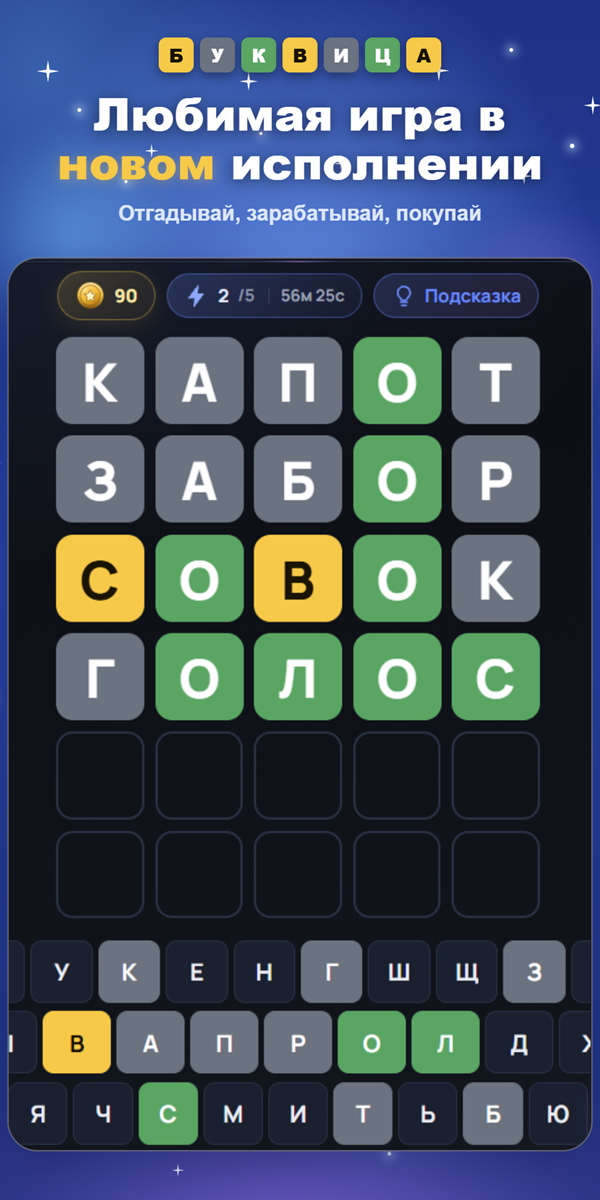
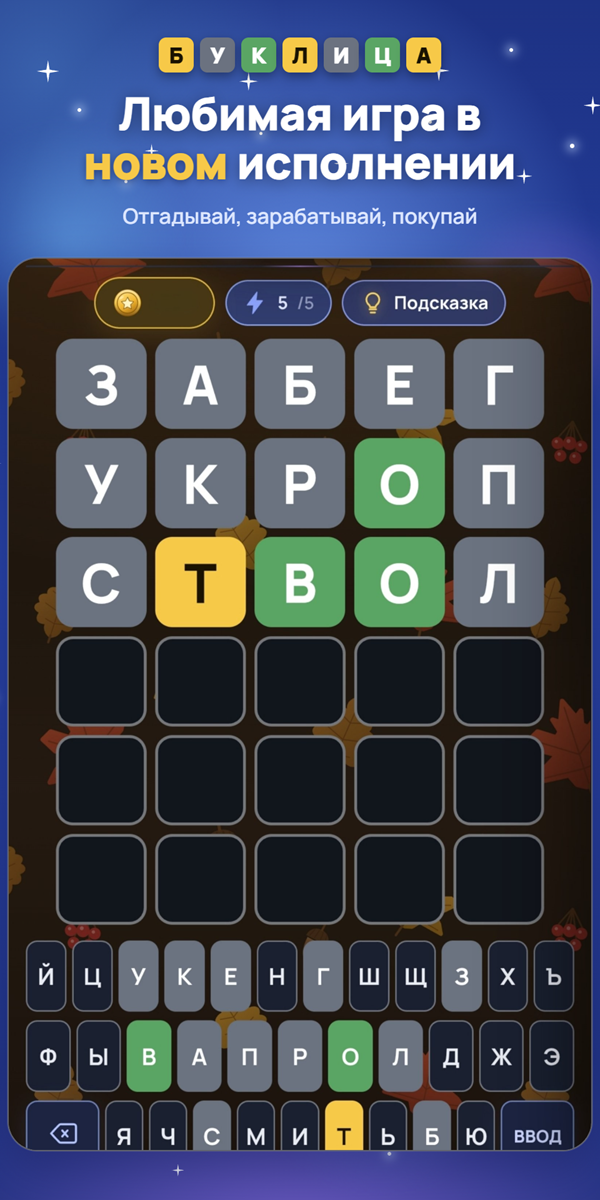
assets(vk): screenshots from the new Буклица cards
Seven portrait shots (main, pet, modes, mini-games, achievements, backgrounds,
stats), cut 60 px off each side of 1080x1920 to exactly 1:2 and scaled to
600x1200. The old eight, with the previous name and test balance, are gone.

diff --git a/tasks/vk-publish.md b/tasks/vk-publish.md
@@ -95,11 +95,11 @@ npm run deploy:vk
 - **большой сниппет** (раздел «Оформление» → «Изображения») —
   `snippet-1120x630.png`, из плаката «Буклица» (`Сова/Плакат новый 2.png`, срез y 21..941); название вверху, потому что
   низ картинки VK перекрывает своим текстом;
-- **скриншоты** — ориентация **книжная**, восемь файлов по порядку:
-  `vk-promo-1-main`, `-2-pet`, `-3-modes`, `-4-bgs`, `-5-mini`,
-  `-6-achievements`, `-7-styles`, `-8-stats` (600×1200). На 7 и 8 виден
-  тестовый баланс 91 592 монеты — картинки те же, что на Яндексе.
-  Это маркетинговые снимки, сделанные для Яндекса (`Desktop/Буклица/скрины/маркетинг`):
+- **скриншоты** — ориентация **книжная**, семь файлов по порядку:
+  `vk-promo-1-main`, `-2-pet`, `-3-modes`, `-4-mini`, `-5-achievements`,
+  `-6-bgs`, `-7-stats` (600×1200). Это маркетинговые карточки «Буклицы»
+  (`Desktop/Буквица/скрины Буклица/маркетинг/1…7.png`, те же, что на Яндексе;
+  питомец — `3.png`, режимы — `2.png`, порядок как в горизонтальной склейке):
   крупный интерфейс в рамке, заголовок, фирменный фон. Из 1080×1920 срезано
   по 60 px с боков — получается ровно 1:2, рамка начинается на x=72 и не
   задевается. Ориентацию выбирают один раз: при смене VK удаляет уже загруженные.
